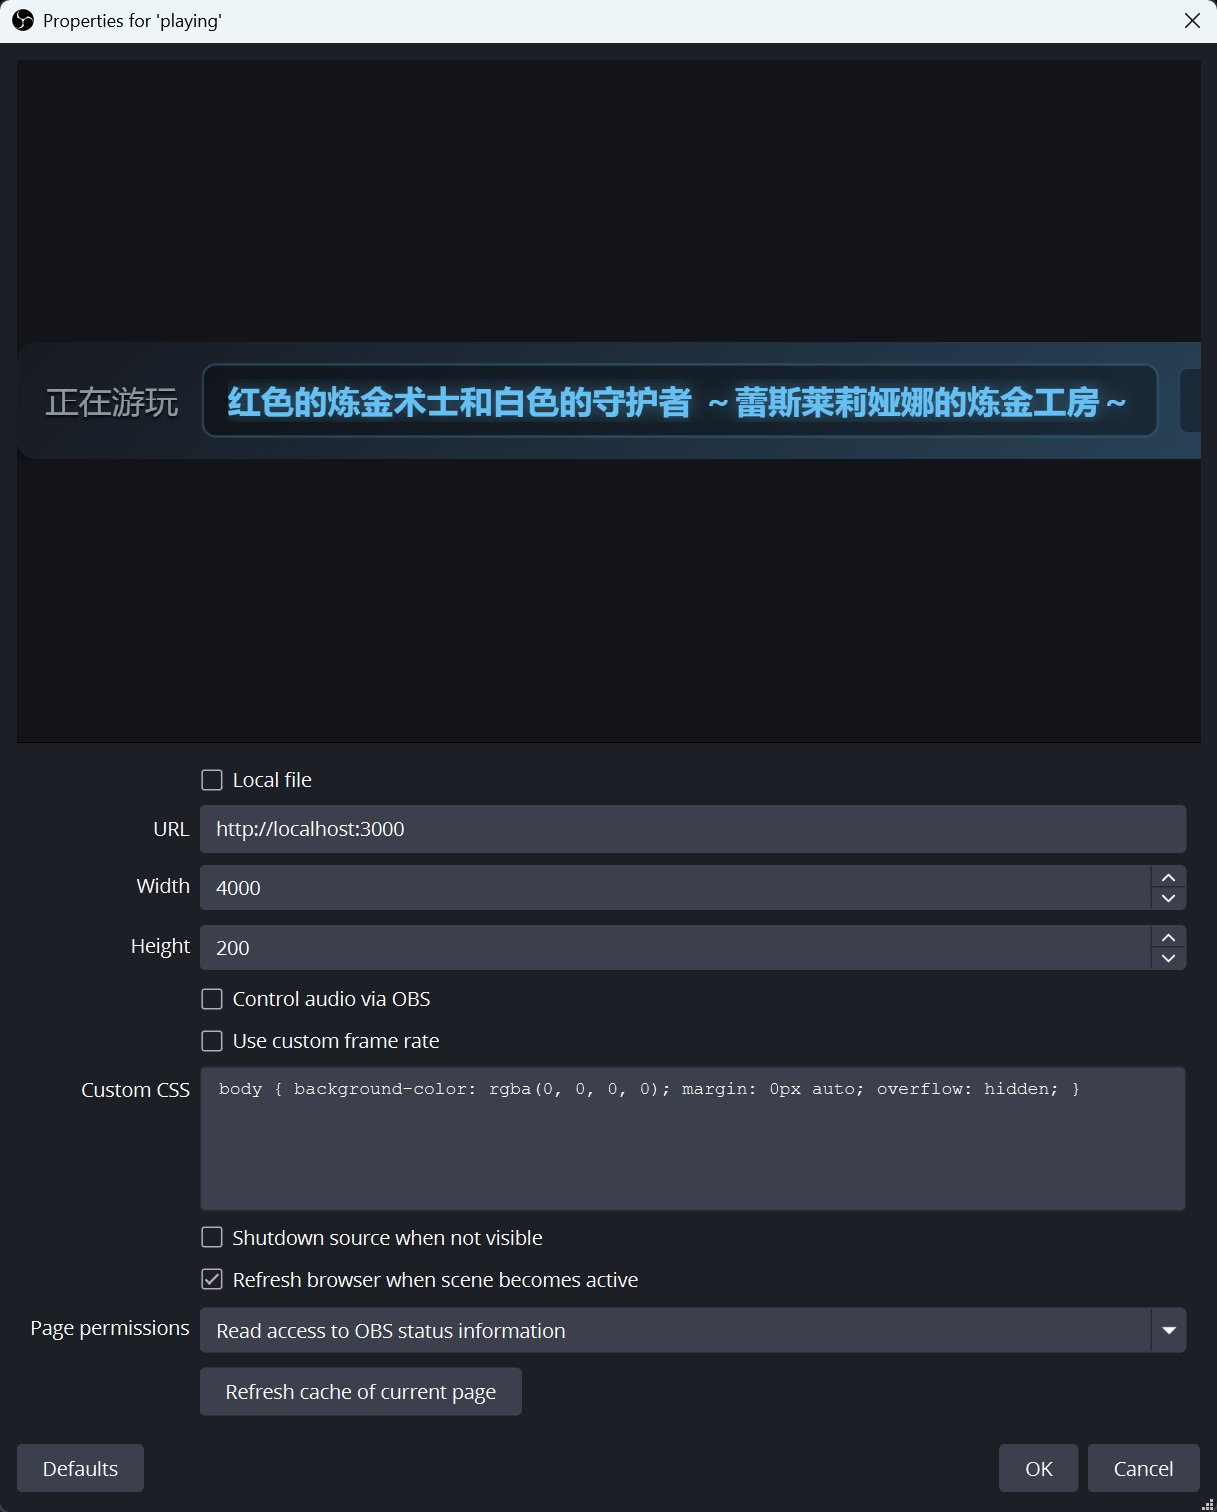
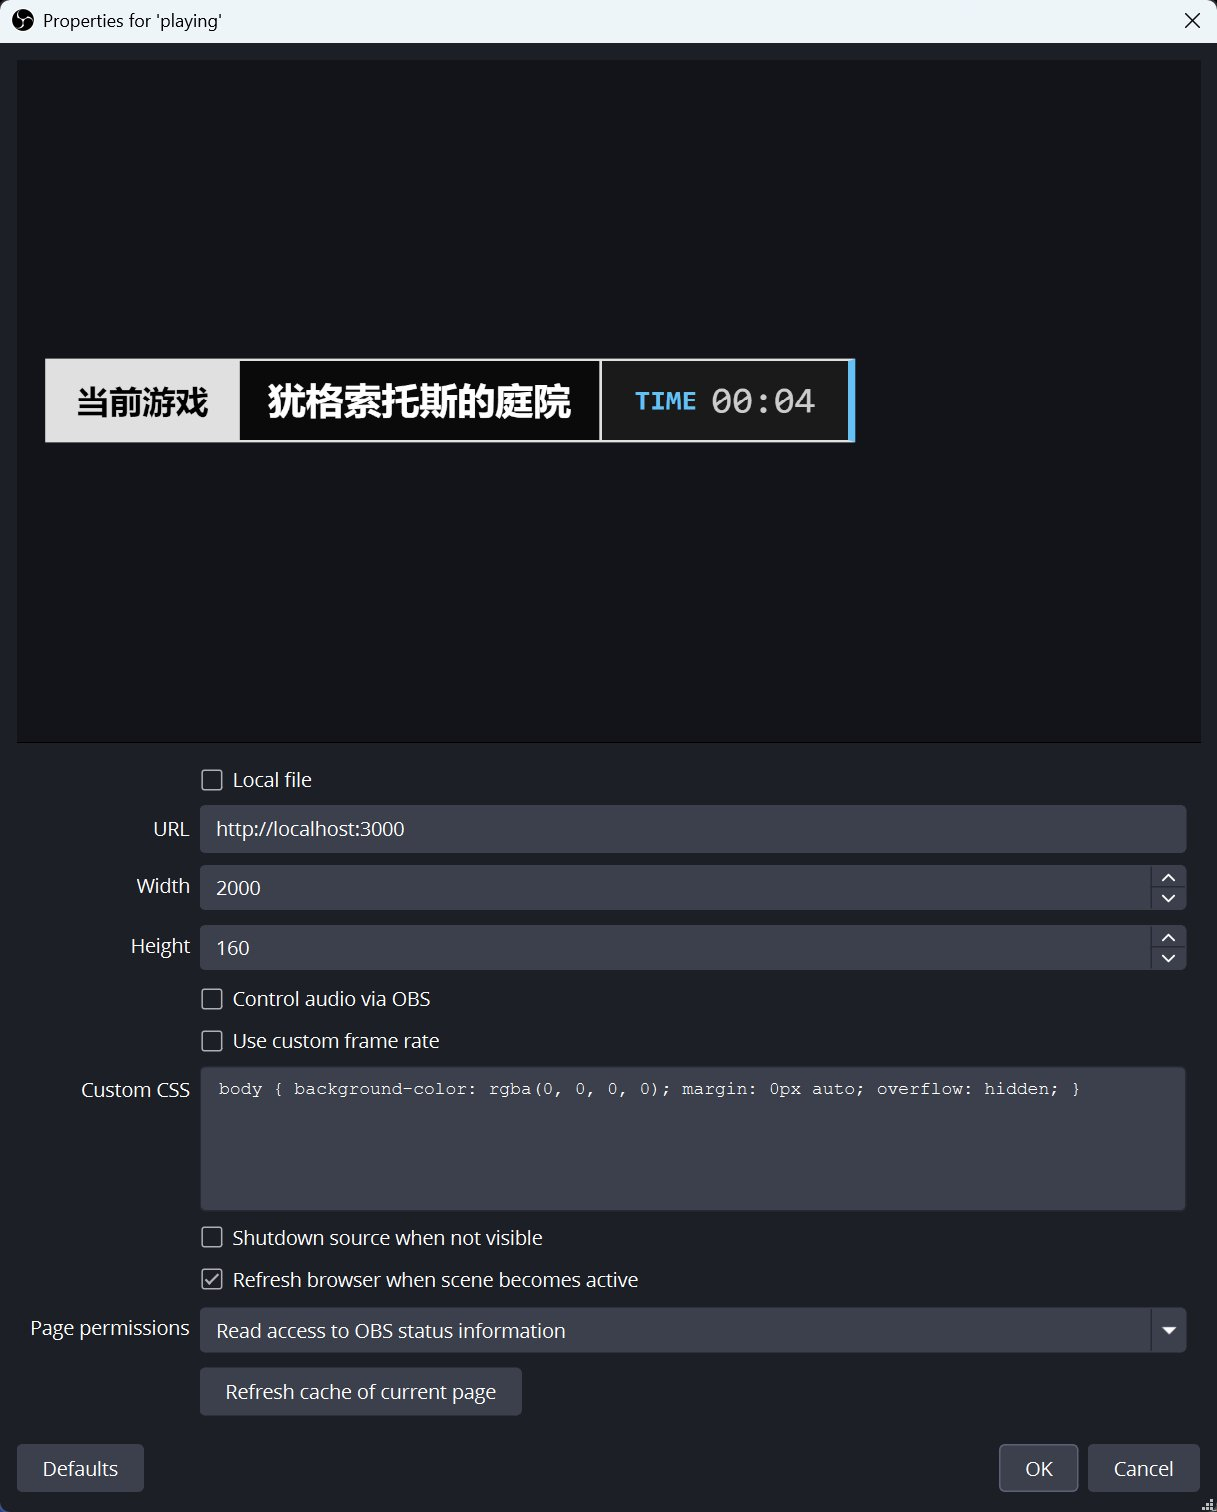
update: modern style display

Changed region(s): [[0.0312, 0.2176, 0.9992, 0.3108], [0.9992, 0.9947, 1.0, 1.0]]

diff --git a/src/main.rs b/src/main.rs
@@ -109,117 +109,115 @@ fn format_duration(elapsed: std::time::Duration) -> String {
 async fn get_html_template() -> String {
     r##"
     <style>
-        .steam-monitor-scope {
-            font-family: 'Microsoft YaHei', 'Segoe UI', Tahoma, sans-serif;
+        /* 全局容器设置 */
+        .obs-hidpi-scope {
+            font-family: 'Microsoft YaHei', 'SimHei', Arial, sans-serif;
             box-sizing: border-box;
-            transform: translateZ(0);
-            -webkit-font-smoothing: antialiased;
-        }
 
-        .steam-card {
             display: inline-flex;
             flex-direction: row;
-            align-items: center;
-            background: linear-gradient(135deg, #171a21 0%, #2a475e 100%);
-            max-width: 4000px;
-            height: 200px;
-            border-radius: 32px;
-            padding: 0 48px;
-            box-shadow: 0 16px 32px rgba(0,0,0,0.4);
-            white-space: nowrap;
-            overflow: hidden;
+            align-items: stretch;
+            height: 160px;
+            padding: 8px;
+
+            margin: 0;
+            line-height: 1;
         }
 
-        .steam-card span {
-            line-height: normal;
-        }
-
-        .steam-label {
-            font-size: 56px;
-            color: #8F98A0;
-            font-weight: 500;
-            text-shadow: 0px 4px 4px rgba(0,0,0,0.8);
-            margin-right: 8px;
-            flex-shrink: 0;
-        }
-
-        /* --- 游戏名外层盒子 --- */
-        .steam-game-name-box {
-            /* 使用 flex 布局来管理内层文本 */
+        /* --- 通用方块基础样式 --- */
+        .hud-block {
             display: flex;
             align-items: center;
             justify-content: center;
 
-            /* 收缩权重 1，自动基础大小 */
-            flex: 0 1 auto;
+            /* [2x] 内边距 24px -> 48px */
+            padding: 0 48px;
 
-            min-width: 250px;
-            max-width: 100%;
+            border-radius: 0;
+            background-color: #0a0a0a;
 
-            height: 128px;
-            box-sizing: border-box;
-            background: rgba(0, 0, 0, 0.35);
-            border: 4px solid rgba(102, 192, 244, 0.25);
-            border-radius: 24px;
-            padding: 0 40px;
-            margin: 0 32px;
+            border: 4px solid #e0e0e0;
+            margin-right: -4px;
+
+            position: relative;
         }
 
-        /* --- 游戏名内层文本 --- */
-        .steam-game-name-text {
-            /* 关键：允许 flex 项目压缩到比内容更小，从而触发 ellipsis */
-            min-width: 0;
+        /* --- 1. 状态块 (左侧) --- */
+        .block-status {
+            background-color: #e0e0e0;
+            color: #000000;
+            font-weight: 900;
 
-            /* 占满空间 */
-            flex: 1;
+            font-size: 56px;
+
+            text-transform: uppercase;
+
+            min-width: 200px;
+            z-index: 3;
+        }
+
+        /* --- 2. 游戏名块 (中间) --- */
+        .block-game {
+            flex: 0 1 auto;
+
+            max-width: 1200px;
+            min-width: 400px;
+
+            color: #ffffff;
+
+            font-size: 64px;
+
+            font-weight: bold;
+            z-index: 2;
 
             white-space: nowrap;
             overflow: hidden;
-            text-overflow: ellipsis;
-            text-align: center;
-
-            font-size: 56px;
-            font-weight: bold;
-            color: %GameNameColor%;
-            text-shadow: 0px 0px 30px rgba(102, 192, 244, 0.5);
         }
 
-        .steam-time {
-            display: inline-flex;
-            align-items: center;
-            justify-content: center;
-            min-width: 200px;
-            height: 108px;
-            font-family: 'Consolas', 'Monaco', monospace;
-            font-size: 56px;
-            color: #c7d5e0;
-            background-color: #1b2838;
-            border: 4px solid #2a3f5a;
-            padding: 0 32px;
-            border-radius: 16px;
-            letter-spacing: 2px;
-            flex-shrink: 0;
+        .game-text {
+            overflow: hidden;
+            text-overflow: ellipsis;
+            /* [2x] 微调 2px -> 4px */
+            padding-bottom: 4px;
+        }
+
+        /* --- 3. 时间块 (右侧) --- */
+        .block-time {
+            font-family: 'Consolas', 'Courier New', monospace;
+            background-color: #1a1a1a;
+            color: #cccccc;
+
+            font-size: 64px;
+
+            min-width: 320px;
+            z-index: 1;
+
+            border-right: 12px solid #66c0f4;
         }
 
         .time-icon {
             font-size: 48px;
-            margin-right: 20px;
-            filter: grayscale(100%) opacity(0.7);
+
+            margin-right: 24px;
+
+            color: #66c0f4;
+            font-weight: bold;
         }
+
     </style>
 
-    <div class="steam-monitor-scope">
-        <div class="steam-card">
-            <span class="steam-label">%Status%</span>
+    <div class="obs-hidpi-scope">
+        <div class="hud-block block-status">
+            %Status%
+        </div>
 
-            <div class="steam-game-name-box">
-                <span class="steam-game-name-text">%GameName%</span>
-            </div>
+        <div class="hud-block block-game">
+            <span class="game-text">%GameName%</span>
+        </div>
 
-            <span class="steam-time">
-                <span class="time-icon">⏱</span>
-                %PlayTime%
-            </span>
+        <div class="hud-block block-time">
+            <span class="time-icon">TIME</span>
+            %PlayTime%
         </div>
     </div>
     "##.to_string()
@@ -234,7 +232,7 @@ async fn current_game_handler(State(state): State<Arc<AppState>>) -> impl IntoRe
     let content = if *game_name == "未在游玩" {
         String::new()
     } else {
-        let status_text = "正在游玩";
+        let status_text = "当前游戏";
         let game_color = "#66C0F4"; // Steam 亮蓝
 
         let play_time_str = if let Some(start) = *start_time {
